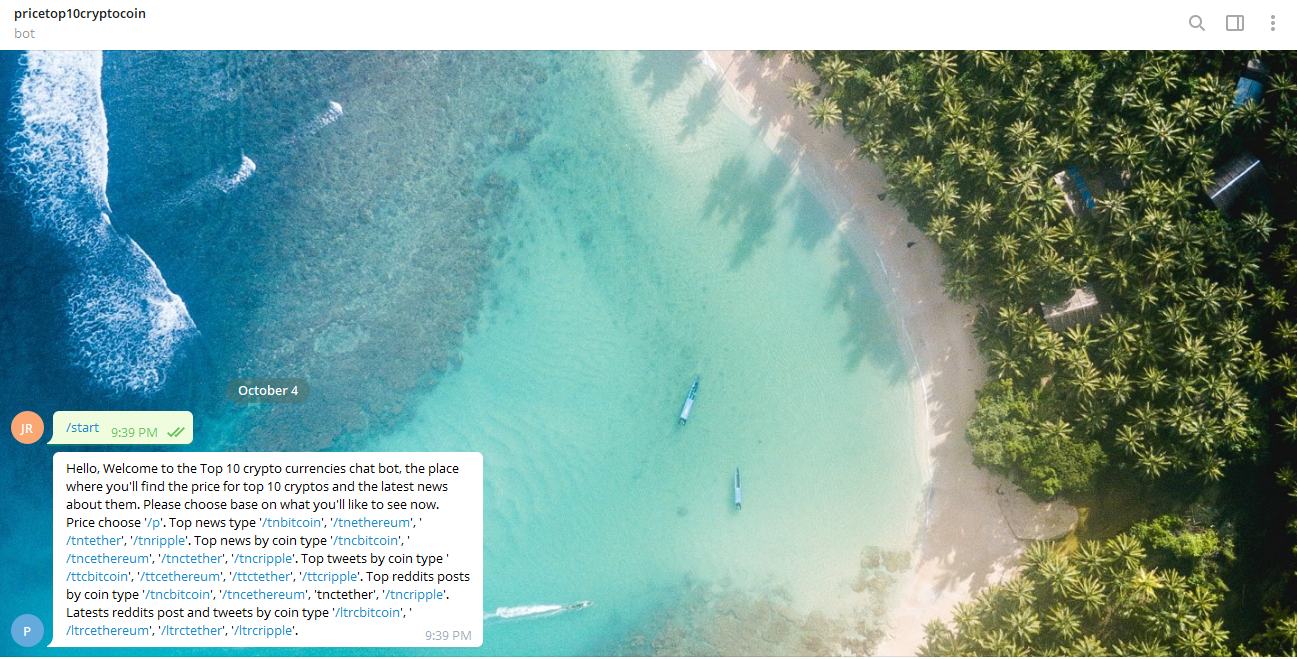
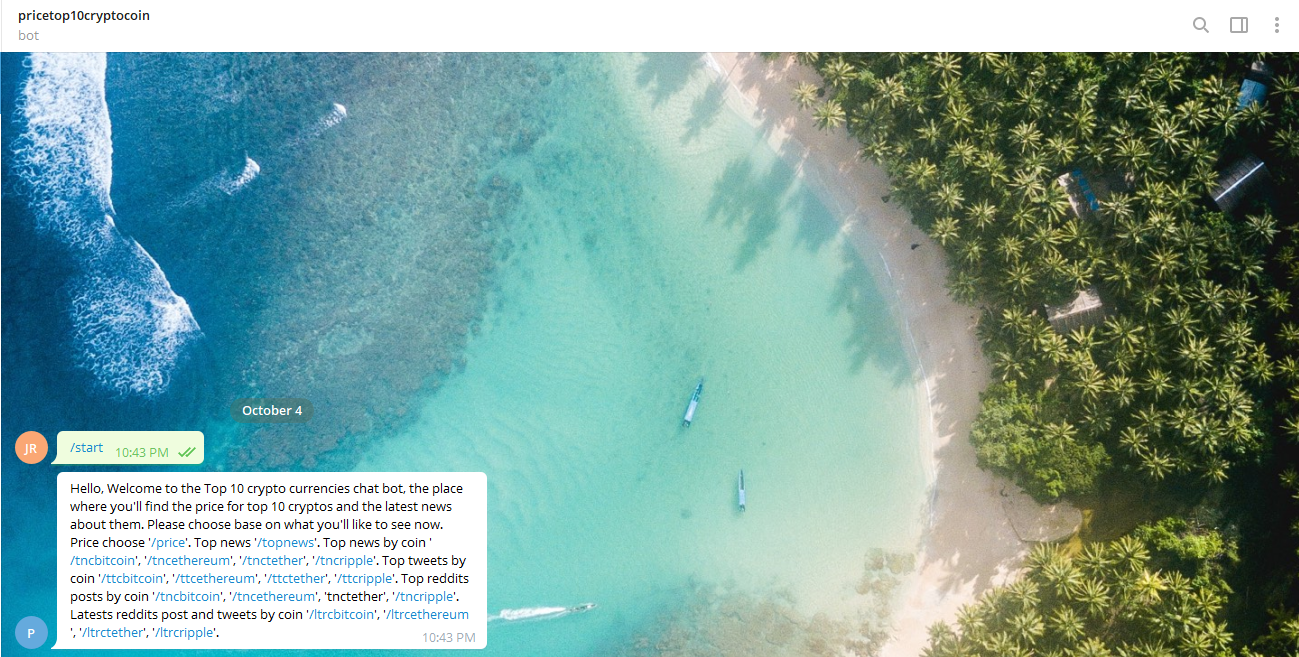
Fixed bug in main file where the initial message had an error in the commands for the top reddits by coin method call. Added more descriptions of the program in the Readme. Updated the first screenshot since it was taken with the error in the initial message

diff --git a/bin/main.rb b/bin/main.rb
@@ -14,7 +14,7 @@ Telegram::Bot::Client.run(token) do |bot|
     case message.text    
     when '/start'
 
-      text = "Hello, Welcome to the Top 10 crypto currencies chat bot, the place where you'll find the price for top 10 cryptos and the latest news about them. Please choose base on what you'll like to see now. Price choose '/price'. Top news type '/topnews'. Top news by coin type '/tncbitcoin', '/tncethereum', '/tnctether', '/tncripple'. Top tweets by coin type '/ttcbitcoin', '/ttcethereum', '/ttctether', '/ttcripple'. Top reddits posts by coin type '/tncbitcoin', '/tncethereum', 'tnctether', '/tncripple'. Latests reddits post and tweets by coin type '/ltrcbitcoin', '/ltrcethereum', '/ltrctether', '/ltrcripple'."
+      text = "Hello, Welcome to the Top 10 crypto currencies chat bot, the place where you'll find the price for top 10 cryptos and the latest news about them. Please choose base on what you'll like to see now. Price choose '/price'. Top news '/topnews'. Top news by coin '/tncbitcoin', '/tncethereum', '/tnctether', '/tncripple'. Top tweets by coin '/ttcbitcoin', '/ttcethereum', '/ttctether', '/ttcripple'. Top reddits posts by coin '/trcbitcoin', '/trcethereum', 'trctether', '/trcripple'. Latests reddits post and tweets by coin '/ltrcbitcoin', '/ltrcethereum', '/ltrctether', '/ltrcripple'."
 
       bot.api.send_message(chat_id: message.chat.id, text: text, date: message.date)
     

diff --git a/README.md b/README.md
@@ -13,6 +13,46 @@ The Microverse Capstone project for the Ruby module called "Build your own Bot" 
 
 ![screenshot](./app_screenshot_4.png)
 
+The Telegram Bot I created has the following commands:
+
+/start : To run the program starting the bot
+
+/price : To show the price of the top 10 cryptocurrencies
+
+/topnews : To show the top 3 news of all of the cryptocurrencies combined
+
+/tncbitcoin : Show the top 3 news of bitcoin 
+
+/tncethereum : Show the top 3 news of ethereum 
+
+/tnctether : Show the top 3 news of tether 
+
+/tncripple : Show the top 3 news of ripple
+
+/ttcbitcoin : Show the top 3 tweets of bitcoin
+
+/ttcethereum : Show the top 3 tweets of ethereum
+
+/ttctether : Show the top 3 tweets of tether
+
+/ttcripple : Show the top 3 tweets of ripple
+
+/trcbitcoin : Show the top 3 reddit posts of bitcoin
+
+/trcethereum : Show the top 3 reddit posts of ethereum
+
+trctether : Show the top 3 reddit posts of tether
+
+/trcripple : Show the top 3 reddit posts of ripple
+
+/ltrcbitcoin : Show the latest 3 reddit comments and tweets posts of bitcoin
+
+/ltrcethereum : Show the latest 3 reddit comments and tweets posts of ethereum
+
+/ltrctether : Show the latest 3 reddit comments and tweets posts of tether
+
+/ltrcripple : Show the latest 3 reddit comments and tweets posts of ripple
+
 
 ## Built With
 - Ruby programming language
